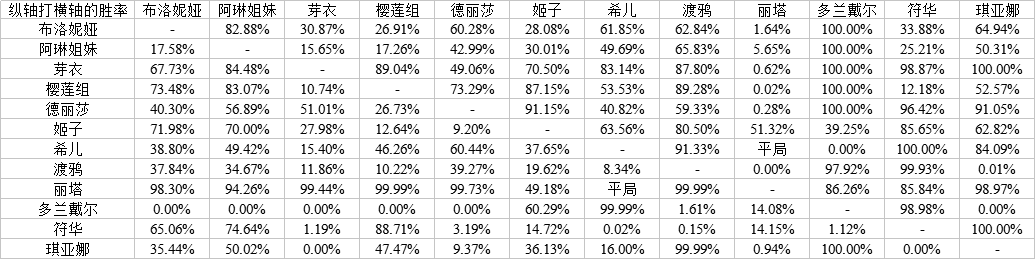
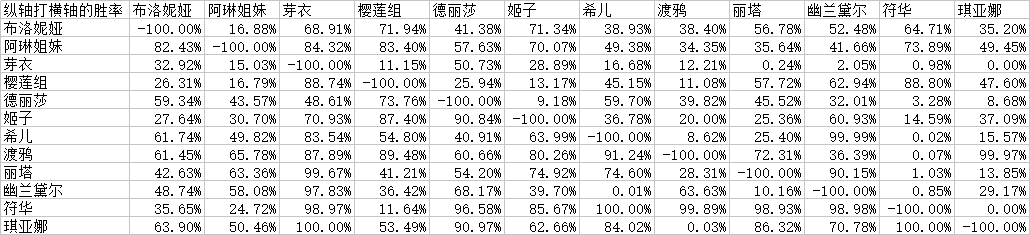
fix Lita Class

diff --git a/roles.py b/roles.py
@@ -352,13 +352,13 @@ class Durandel(Role):
         if is_skill_attack:
             if random.randint(1, 10000) < 1600:
                 causer.blood -= 30
-        else:
-            damage = damage - self.shield
-            if damage <= 0:
-                damage = 0
-            if fire <= 0:
-                fire = 0
-            self.blood = self.blood - damage - fire
+                return
+        damage = damage - self.shield
+        if damage <= 0:
+            damage = 0
+        if fire <= 0:
+            fire = 0
+        self.blood = self.blood - damage - fire
 
 
 class LiTa(Role):
@@ -373,19 +373,18 @@ class LiTa(Role):
         super(LiTa, self).attack(role, current_round)
         if self.not_numbness and self.charmed_counts <= 0:
             self.perfect_mind(role, current_round)
-            if current_round % 4 != 0:
+            if current_round % 4 != 0 and random.randint(1, 10000) < 3500:
                 self.gentle_cleaning_of_maid(role)
+            else:
+                self.normal_attack(role)
 
     def gentle_cleaning_of_maid(self, role):
         """skill1：gentle_cleaning_of_maid
-        35% possibility to reduce current damage 3 points, and reduce enemy's arrow 4 points permanently
+        reduce current damage 3 points, and reduce enemy's arrow 4 points permanently
         @:param role: my enemy
         """
-        if random.randint(1, 10000) < 3500:
-            role.under_attack(causer=self, damage=self.arrow - 3, is_skill_attack=True)
-            role.arrow -= 4
-        else:
-            role.normal_attack(role)
+        role.under_attack(causer=self, damage=self.arrow - 3, is_skill_attack=True)
+        role.arrow -= 4
 
     def perfect_mind(self, role, current_round):
         """skill2：perfect_mind

diff --git a/main.py b/main.py
@@ -27,13 +27,11 @@ def main():
             fight_times = 10000
             if attacker == defender:
                 winning_probability[attacker].append(-1)
-            elif (attacker == 'LiTa' and defender == 'XiEr') or (attacker == 'XiEr' and defender == 'LiTa'):
-                winning_probability[attacker].append(-1)
             else:
                 winner_dict = simulation.redict_winner(attacker_class, defender_class, fight_times)
                 winning_probability.get(attacker).append(winner_dict.get(attacker, 0)/fight_times)
     print(winning_probability)
-    DataFrame(winning_probability).to_csv("C:\\Users\\cyx\\pythonProjects\\bbb_summerBet\\result.csv",index =False)
+    DataFrame(winning_probability).to_csv(".\\result.csv", index=False)
 
 
 def test_Alin_Jizi():
@@ -45,7 +43,7 @@ def test_Alin_Jizi():
 
 def test_LiTa_XiEr():
 
-    fight_times = 100
+    fight_times = 1000
     winner_dict = simulation.redict_winner(roles.LiTa, roles.XiEr, fight_times)
     # print(winning_probability)
     print(winner_dict)
